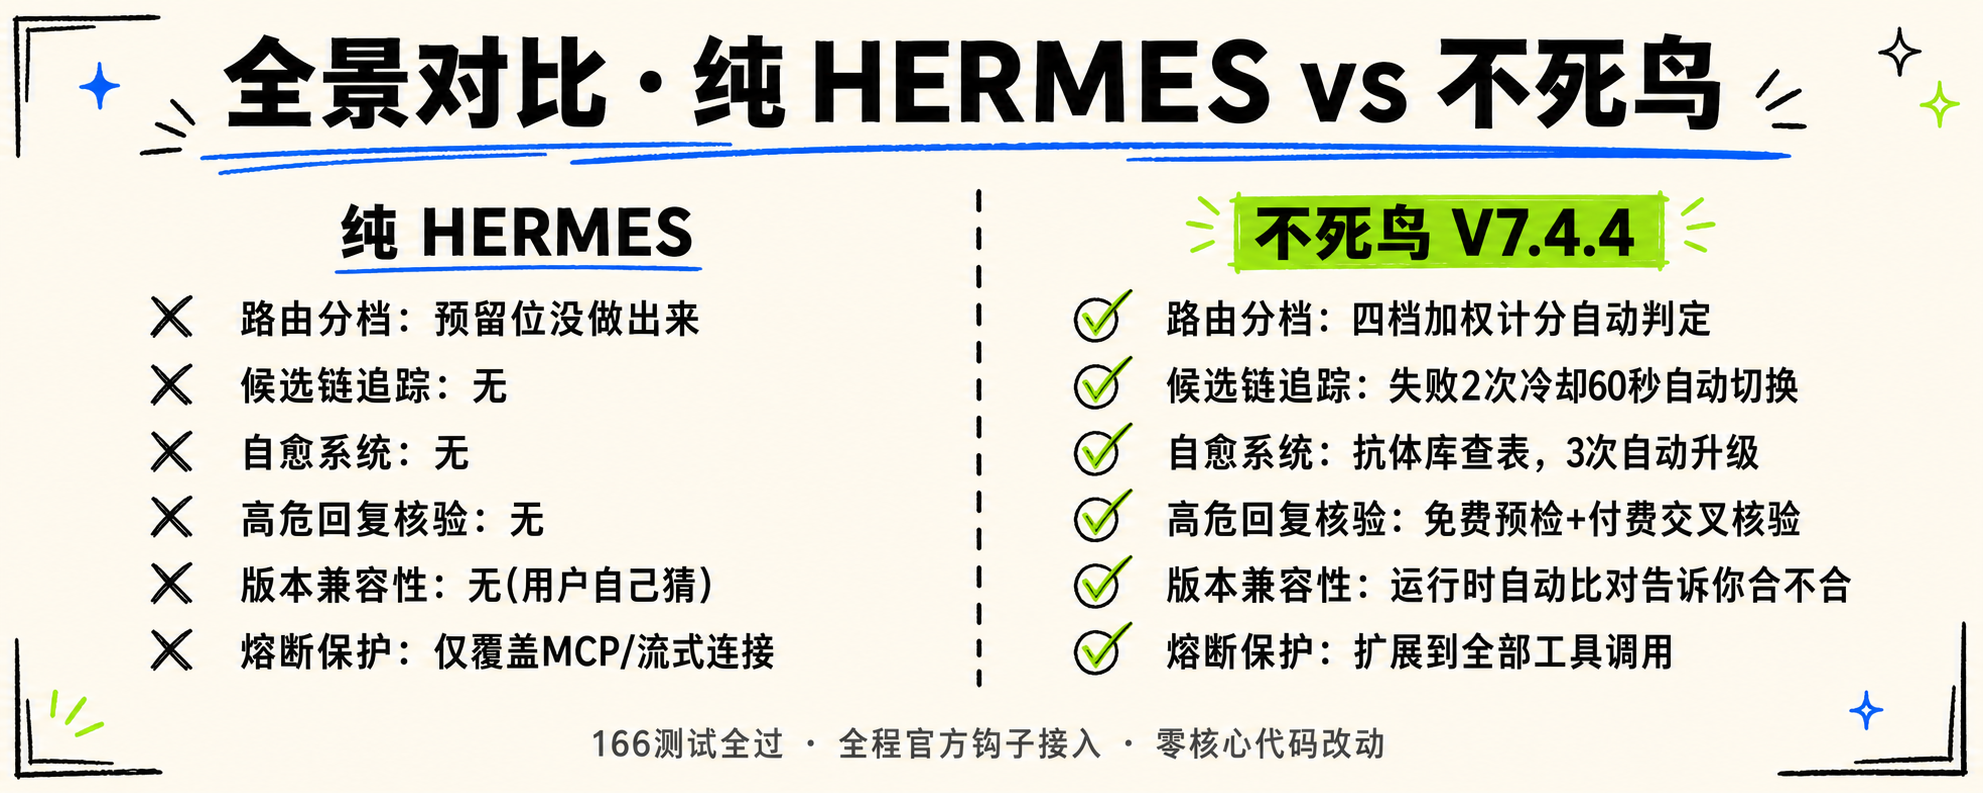
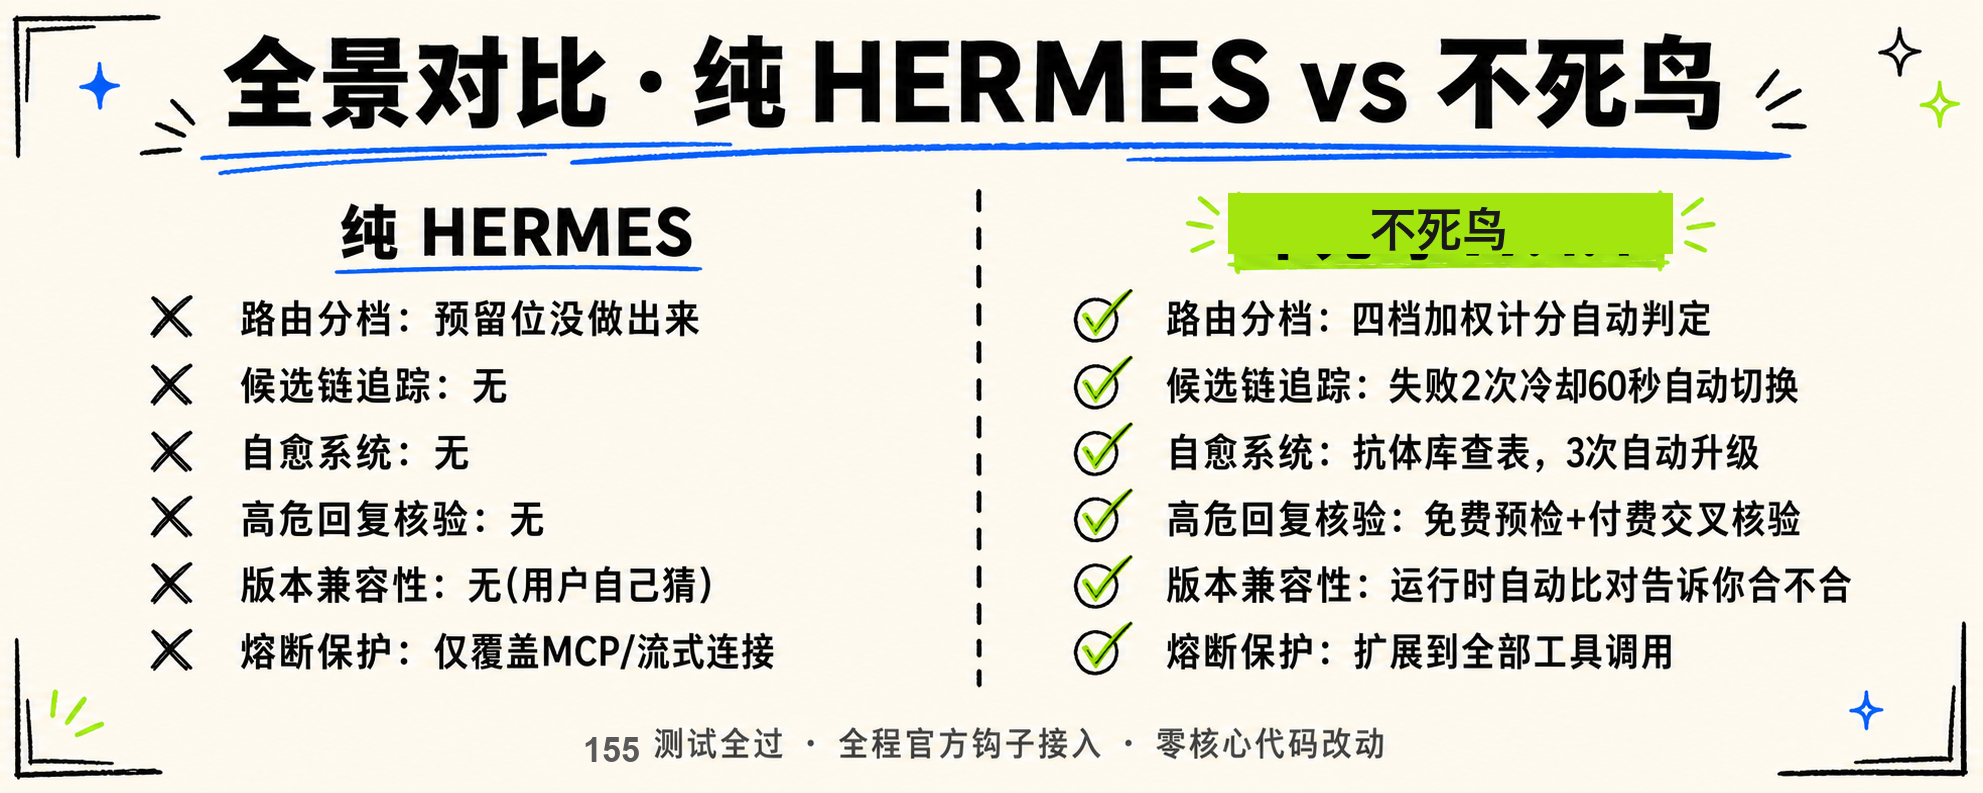
fix: 修正README下载说明+图片过期数字
1. README安装说明纠正：Code->Download ZIP下载的是整个仓库(含11MB展示图)不是安装包，
   明确只推荐Releases页面下载
2. 封面图/对比图里的过期数字修正：166测试->155，8个模块->7个(记忆模块已退役)，
   对比图标题去掉版本号只保留'不死鸟'，方便以后升级不用重做整张图

Changed region(s): [[0.6152, 0.2421, 0.8613, 0.3329], [0.2769, 0.9079, 0.3384, 0.9685]]

diff --git a/README.md b/README.md
@@ -78,7 +78,9 @@ hermes phoenix-status
 
 ### 下载
 
-在 [Releases](../../releases) 或本仓库首页点 **Code → Download ZIP**，解压到任意位置。
+⚠ 请从 **[Releases](../../releases/latest)** 页面下载安装包（几百 KB，纯代码）。**不要**点仓库首页的绿色 "Code → Download ZIP" 按钮——那下载的是整个仓库源码（含展示图片等资源，十几 MB），不是安装包，装不了。
+
+解压到任意位置后继续下面的步骤。
 
 ### macOS / Linux
 
